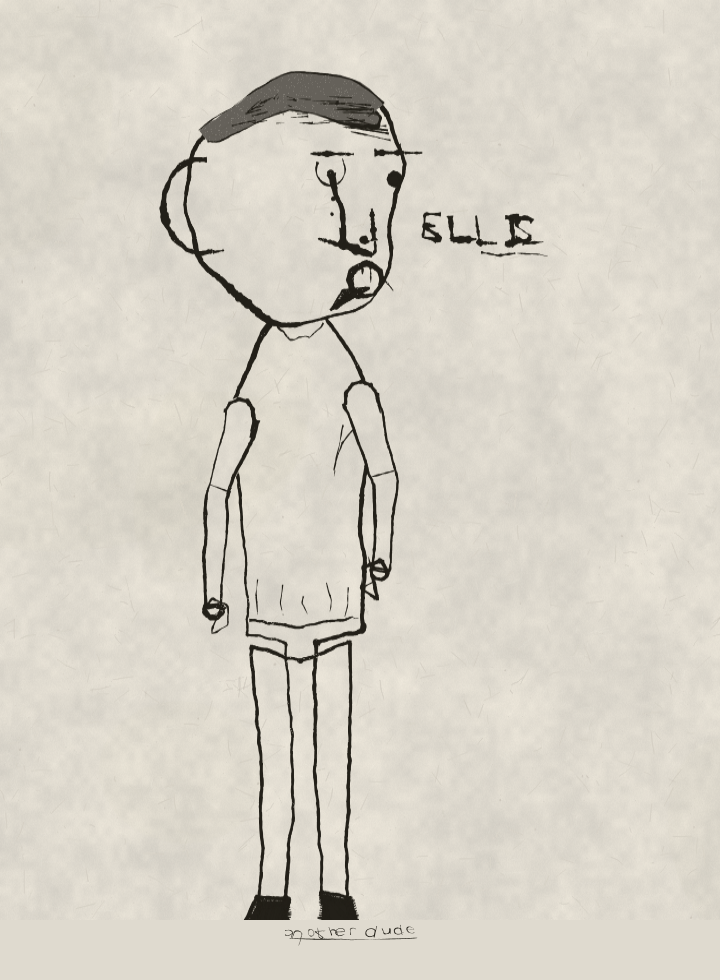
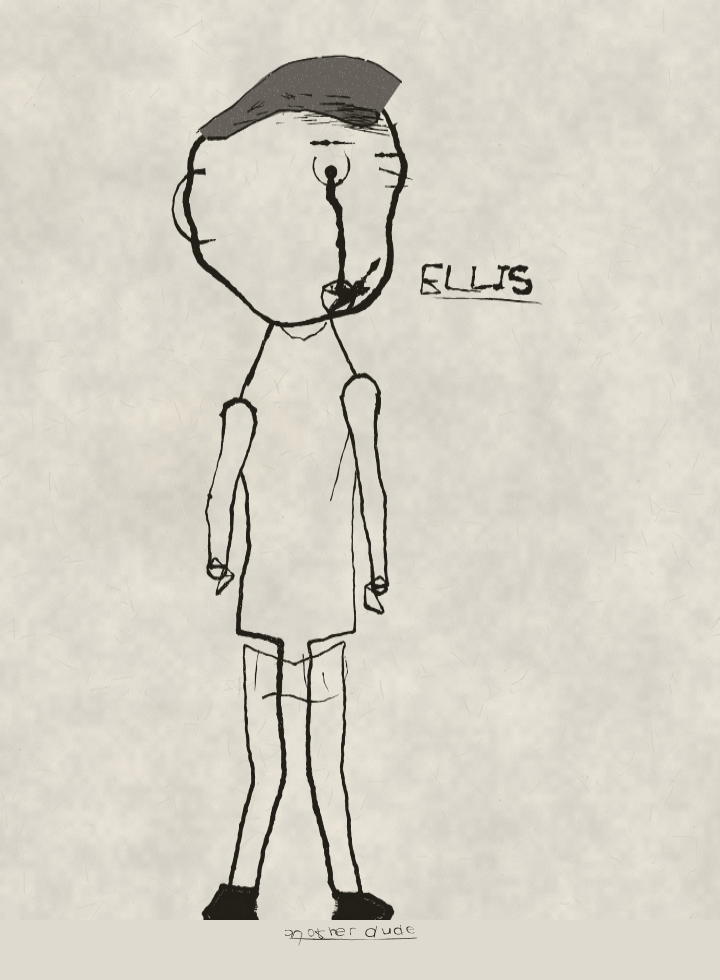
Gauntlet: arms over the garment, hair above the eyes, legible letters
Verification round confirmed three earlier fixes landed - no joint blobs
anywhere, the seven builds genuinely differ, and the name clears the
figure in all seven - and found this.

- Garment lines ran straight across both arms and out past the
  silhouette, so in one shot every stripe crossed both arms and they read
  as transparent. Arms are now drawn LAST, over the finished garment,
  which is also the order a person draws them in.
- Hems were still ruled. A hem now wanders on six points and stops short
  of the silhouette instead of running to it.
- The cuff still spanned the arm, which reads as the seam between two
  tubes. It is now a tick biting in from one edge and stopping.
- Hair could reach eye level on one side when a side sweep and a side
  bias stacked, and the mass then lay across the face as a black bar. The
  hairline is clamped above the eyes.
- A hat filled at a third opacity left the cranium line showing straight
  through it. Translucent hats and the curly wreath now wipe to paper and
  re-fibre first, like the stroke-laid hair already did.
- Weight hierarchy: the jaw now carries 1.45-1.95x the cranium rather
  than 1.15-1.45x, so the head has an underside.
- Shoulder slope, shrug and arm hang vary per figure; six of seven had
  been dropping both arms at the same near-vertical angle.
- Letter distortion had passed the point where a letter stops being that
  letter - OTTO was reading as 0550. Shear, bulge, jitter, rotation and
[…]

diff --git a/dude.js b/dude.js
@@ -908,8 +908,8 @@
     const w0 = skull.s * 0.03 * (skull.pen || 1);
     const cranium = arc(-ov, Math.round(n * 0.5) + ov);
     const jaw = arc(Math.round(n * 0.5) - ov, n + ov);
-    inkPoly(c, rng, cranium, { w: w0 * rng.f(0.88, 1.05), dry: 0.3, doubled: rng.chance(0.35) });
-    inkPoly(c, rng, jaw, { w: w0 * rng.f(1.15, 1.45), dry: 0.22, doubled: rng.chance(0.42) });
+    inkPoly(c, rng, cranium, { w: w0 * rng.f(0.82, 1.0), dry: 0.3, doubled: rng.chance(0.35) });
+    inkPoly(c, rng, jaw, { w: w0 * rng.f(1.45, 1.95), dry: 0.2, doubled: rng.chance(0.45) });
     if (rng.chance(0.35)) {
       // a cheek restated on one side only
       const a0 = Math.round(n * rng.f(0.02, 0.12));
@@ -1026,7 +1026,10 @@
       else if (sh === "jagged") y += (Math.round(Math.sin(u * 4.7 + 1.3) * 2) / 2) * 0.07;
       else if (sh === "low") y += 0.07 - temple * 0.03;
       y += (fbm2(u * 1.6 + 4, skull.yaw * 2 + (rng.seed % 53) * 0.07, rng.seed) - 0.5) * wob * 2;
-      y = clamp(y, -0.95, 0.08);
+      // Hair may sit low on the brow; it may not cross the eyes. A side sweep
+      // plus a side bias could put the hairline at eye level on one side, and
+      // the mass then read as a black bar laid across the face.
+      y = clamp(y, -0.95, -0.2 + (skull.faceY || 0));
       const p = pin(skull, sphere(u, Math.asin(clamp(y, -0.995, 0.995))));
       pts.push(p);
     }
@@ -1498,6 +1501,8 @@
     if (style === "curly") {
       const h = mk({ lineY: -0.5, bangs: 0.03, puff: 0.09, wob: 0.05 });
       if (h) {
+        inkFill(c, rng, h.mass, PAPER, 1, s * 0.012);
+        refibre(c, rng, h.mass);
         // a wreath of loops, clipped so it never floats off the head
         c.save();
         c.beginPath();
@@ -1583,6 +1588,10 @@
     if (style === "baseball") {
       const h = mk({ lineY: -0.44, puff: 0.15, wob: 0.015, outer: "dome" });
       if (h) {
+        // wipe first: a fill at a third opacity leaves the skull line showing
+        // straight through the hat
+        inkFill(c, rng, h.mass, PAPER, 1, s * 0.01);
+        refibre(c, rng, h.mass);
         inkFill(c, rng, h.mass, color, 0.34, s * 0.01);
         c.save();
         c.beginPath();
@@ -2155,7 +2164,8 @@
     const lw0 = B.armW * rng.f(1.02, 1.22);
     const legR = (t) => s * (lw0 - lw0 * 0.34 * t);
     const pose = clothes.pose;
-    const shrug = rng.f(-0.06, 0.1);
+    const shrug = rng.f(-0.12, 0.16);
+    const slope = rng.f(-0.14, 0.26); // square shoulders through to sloping
     // no two sides of a drawn person agree
     const asymL = rng.f(0.86, 1.14);
     const asymR = rng.f(0.86, 1.14);
@@ -2184,11 +2194,13 @@
         return [sh, P(side * (shW + s * 0.14), shY + s * 0.62), P(-side * s * 0.16, shY + s * 0.95)];
       }
       // hanging
+      // the hang is not vertical on everyone: some swing out, some tuck in
       const a = asym(side);
+      const swing = rng.f(-0.16, 0.24);
       return [
         sh,
-        P(side * (shW + s * rng.f(0.02, 0.13)) * a, shY + s * rng.f(0.72, 0.92) * a),
-        P(side * (shW + s * rng.f(-0.02, 0.2)) * a, shY + s * rng.f(1.5, 1.78) * a),
+        P(side * (shW + s * (rng.f(0.02, 0.13) + swing * 0.4)) * a, shY + s * rng.f(0.66, 0.96) * a),
+        P(side * (shW + s * (rng.f(-0.02, 0.2) + swing)) * a, shY + s * rng.f(1.42, 1.86) * a),
       ];
     };
 
@@ -2227,8 +2239,8 @@
     // ---- one continuous silhouette ----
     const neckL = P(-s * rng.f(0.15, 0.21), neckY - s * 0.42);
     const neckR = P(s * rng.f(0.15, 0.21), neckY - s * 0.42);
-    const shoulderL = P(-shW * asymL, shY + s * shrug * -1);
-    const shoulderR = P(shW * asymR, shY + s * shrug + s * rng.f(-0.06, 0.06));
+    const shoulderL = P(-shW * asymL, shY + s * (slope - shrug));
+    const shoulderR = P(shW * asymR, shY + s * (slope + shrug) + s * rng.f(-0.06, 0.06));
     // a belly, or a pinch, or neither — and it is not at the same height twice
     const waistY = shY + (hipY - shY) * rng.f(0.42, 0.68);
     const midW = (shW + hipW) * 0.5 * B.waist;
@@ -2360,26 +2372,29 @@
     const bw = s * 0.034 * rng.f(0.92, 1.12);
     const wob = s * rng.f(0.035, 0.06);
     inkPoly(c, rng, core, { closed: true, w: bw, doubled: true, dry: 0.6, wobble: wob });
-    // the arm sits in front of the body, so it hides the line behind it
-    inkFill(c, rng, Larm, clothes.wash || PAPER, clothes.wash ? 0.22 : 1, 0.8);
-    inkFill(c, rng, Rarm, clothes.wash || PAPER, clothes.wash ? 0.22 : 1, 0.8);
-    refibre(c, rng, Larm);
-    refibre(c, rng, Rarm);
-    inkPoly(c, rng, Larm, { closed: true, w: bw * 0.92, dry: 0.7, wobble: wob * 0.8 });
-    inkPoly(c, rng, Rarm, { closed: true, w: bw * 0.92, dry: 0.7, wobble: wob * 0.8 });
-    if (pose !== "folded" && pose !== "pockets") {
-      hand(c, rng, LaS, armR(1), -1, s);
-      hand(c, rng, RaS, armR(1), 1, s);
-    } else if (pose === "pockets") {
-      for (let side = -1; side <= 1; side += 2) {
-        const t = side < 0 ? LaS[LaS.length - 1] : RaS[RaS.length - 1];
-        inkPoly(c, rng, [
-          { x: t.x - side * s * 0.22, y: t.y - s * rng.f(0.16, 0.26) },
-          { x: t.x - side * s * 0.06, y: t.y - s * 0.04 },
-          { x: t.x + side * s * rng.f(0.08, 0.16), y: t.y + s * rng.f(0.0, 0.06) },
-        ], { w: s * 0.017, dry: 0.7 });
+    // Arms are drawn LAST, over the finished garment. Drawn before it, every
+    // hem and stripe ran straight across them and the arms read transparent.
+    const drawArms = () => {
+      inkFill(c, rng, Larm, PAPER, 1, 0.8);
+      inkFill(c, rng, Rarm, PAPER, 1, 0.8);
+      refibre(c, rng, Larm);
+      refibre(c, rng, Rarm);
+      inkPoly(c, rng, Larm, { closed: true, w: bw * 0.92, dry: 0.7, wobble: wob * 0.8 });
+      inkPoly(c, rng, Rarm, { closed: true, w: bw * 0.92, dry: 0.7, wobble: wob * 0.8 });
+      if (pose !== "folded" && pose !== "pockets") {
+        hand(c, rng, LaS, armR(1), -1, s);
+        hand(c, rng, RaS, armR(1), 1, s);
+      } else if (pose === "pockets") {
+        for (let side = -1; side <= 1; side += 2) {
+          const t = side < 0 ? LaS[LaS.length - 1] : RaS[RaS.length - 1];
+          inkPoly(c, rng, [
+            { x: t.x - side * s * 0.22, y: t.y - s * rng.f(0.16, 0.26) },
+            { x: t.x - side * s * 0.06, y: t.y - s * 0.04 },
+            { x: t.x + side * s * rng.f(0.08, 0.16), y: t.y + s * rng.f(0.0, 0.06) },
+          ], { w: s * 0.017, dry: 0.7 });
+        }
       }
-    }
+    };
     const outline = core;
 
     // ---- clothes cut into the figure ----
@@ -2390,6 +2405,22 @@
     const sleeveT = rng.f(0.36, 0.66);
     // A straight rule across the arm at the same place on both sides reads as
     // the seam where two tubes were butted together, not as a sleeve.
+    // a hem is not a rule: it wanders, and it stops short of the silhouette
+    const hemPts = () => {
+      const x0 = waistL.x + s * rng.f(0.04, 0.16);
+      const x1 = waistR.x - s * rng.f(0.04, 0.16);
+      const pts = [];
+      const n = 5;
+      for (let i = 0; i <= n; i++) {
+        const t = i / n;
+        pts.push({
+          x: x0 + (x1 - x0) * t,
+          y: hemY + Math.sin(t * Math.PI * rng.f(0.7, 1.6)) * s * rng.f(-0.05, 0.05) + rng.f(-2, 2),
+        });
+      }
+      return pts;
+    };
+
     const cuff = (S, side) => {
       if (rng.chance(0.22)) return; // not every sleeve gets marked
       const t = sleeveT + rng.f(-0.12, 0.12);
@@ -2397,25 +2428,30 @@
       const a = edgeOf(S, armR, -1, side < 0 ? 11 : 83)[i];
       const b = edgeOf(S, armR, 1, side < 0 ? 24 : 96)[i];
       if (!a || !b) return;
-      const mx = (a.x + b.x) / 2;
-      const my = (a.y + b.y) / 2;
-      const bow = rng.f(-0.35, 0.35);
-      const short = rng.f(0, 0.22);
+      // A mark spanning the arm reads as the seam between two tubes. A cuff
+      // is a tick biting in from one edge and stopping.
+      const from = rng.chance(0.5) ? 0 : 1;
+      const p0 = from ? b : a;
+      const p1 = from ? a : b;
+      const reach = rng.f(0.3, 0.7);
       inkPoly(c, rng, [
-        { x: a.x + (b.x - a.x) * short, y: a.y + (b.y - a.y) * short },
-        { x: mx + (b.y - a.y) * bow * 0.3, y: my - (b.x - a.x) * bow * 0.3 },
-        { x: b.x - (b.x - a.x) * rng.f(0, 0.18), y: b.y - (b.y - a.y) * rng.f(0, 0.18) },
-      ], { w: s * rng.f(0.012, 0.02), dry: 0.8, wobble: s * 0.02 });
+        { x: p0.x, y: p0.y },
+        {
+          x: p0.x + (p1.x - p0.x) * reach * 0.55 + (p1.y - p0.y) * rng.f(-0.2, 0.2),
+          y: p0.y + (p1.y - p0.y) * reach * 0.55 - (p1.x - p0.x) * rng.f(-0.2, 0.2),
+        },
+        { x: p0.x + (p1.x - p0.x) * reach, y: p0.y + (p1.y - p0.y) * reach },
+      ], { w: s * rng.f(0.011, 0.018), dry: 0.9, wobble: s * 0.018 });
     };
 
     if (clothes.kind === "tee") {
       cuff(LaS, -1);
       cuff(RaS, 1);
       inkPoly(c, rng, arcPts((neckL.x + neckR.x) / 2, neckL.y + s * 0.06, s * rng.f(0.24, 0.32), 0.42, Math.PI - 0.42, rng), { w: s * 0.017, dry: 0.6, wobble: s * 0.035 });
-      inkPoly(c, rng, [{ x: waistL.x + s * 0.04, y: hemY }, { x: (waistL.x + waistR.x) / 2, y: hemY + rng.f(-5, 6) }, { x: waistR.x - s * 0.04, y: hemY + rng.f(-4, 5) }], { w: s * 0.018, dry: 0.6, wobble: s * 0.045 });
+      inkPoly(c, rng, hemPts(), { w: s * 0.018, dry: 0.6, wobble: s * 0.05 });
     } else if (clothes.kind === "hoodie") {
       inkPoly(c, rng, arcPts((neckL.x + neckR.x) / 2, neckY + s * 0.36, s * 0.42, 0.35, Math.PI - 0.35, rng), { w: s * 0.019, dry: 0.6, wobble: s * 0.035 });
-      inkPoly(c, rng, [{ x: waistL.x + s * 0.04, y: hemY }, { x: (waistL.x + waistR.x) / 2, y: hemY + rng.f(-5, 6) }, { x: waistR.x - s * 0.04, y: hemY + rng.f(-4, 5) }], { w: s * 0.021, dry: 0.6, wobble: s * 0.045 });
+      inkPoly(c, rng, hemPts(), { w: s * 0.021, dry: 0.6, wobble: s * 0.05 });
       const pk = (neckL.x + neckR.x) / 2;
       inkPoly(c, rng, [
         { x: pk - s * 0.34, y: hemY - s * 0.42 },
@@ -2442,7 +2478,7 @@
         { x: mid + s * 0.06, y: shY + s * 0.36 },
         { x: mid + s * 0.34, y: shY + s * 0.44 },
       ], { w: s * 0.016 });
-      inkPoly(c, rng, [{ x: waistL.x + s * 0.04, y: hemY }, { x: (waistL.x + waistR.x) / 2, y: hemY + rng.f(-5, 6) }, { x: waistR.x - s * 0.04, y: hemY + rng.f(-4, 5) }], { w: s * 0.02, dry: 0.6, wobble: s * 0.045 });
+      inkPoly(c, rng, hemPts(), { w: s * 0.02, dry: 0.6, wobble: s * 0.05 });
       cuff(LaS, -1);
       cuff(RaS, 1);
     } else if (clothes.kind === "sweater") {
@@ -2531,6 +2567,8 @@
       }
       c.restore();
     }
+
+    drawArms();
 
     if (clothes.darkLegs && clothes.pattern !== "dark") {
       c.save();
@@ -2642,12 +2680,12 @@
     if (!d) return size * 0.55;
     const sx = size * rng.f(0.86, 1.14);
     const sy = size * rng.f(0.88, 1.14);
-    const rot = rng.f(-0.09, 0.09);
+    const rot = rng.f(-0.06, 0.06);
     // A hand cannot repeat a letterform. Shear it, squash it unevenly, and
     // push every control point — otherwise the two O's in a word superimpose
     // and the whole thing reads as a distressed typeface.
-    const shear = rng.f(-0.22, 0.22);
-    const bulge = rng.f(-0.16, 0.16);
+    const shear = rng.f(-0.13, 0.13);
+    const bulge = rng.f(-0.09, 0.09);
     const gseed = rng.i(1, 99999);
     const w = size * (ch === " " ? 0.55 : ch === "i" || ch === "l" || ch === "I" || ch === "'" ? 0.42 : rng.f(0.74, 0.88));
     d.forEach((stroke) => {
@@ -2656,8 +2694,8 @@
       let px = 0;
       let py = 0;
       const xf = (u, v) => {
-        const jx = (fbm2(u * 3.1 + gseed * 0.01, v * 3.1, gseed) - 0.5) * size * 0.09;
-        const jy = (fbm2(v * 3.7 + gseed * 0.01, u * 3.7, gseed + 41) - 0.5) * size * 0.09;
+        const jx = (fbm2(u * 3.1 + gseed * 0.01, v * 3.1, gseed) - 0.5) * size * 0.055;
+        const jy = (fbm2(v * 3.7 + gseed * 0.01, u * 3.7, gseed + 41) - 0.5) * size * 0.055;
         const rx = (u - 0.5 + bulge * v * (1 - v) * 2) * sx - v * shear * sx;
         const ry = v * sy;
         return {
@@ -2688,13 +2726,13 @@
         }
       });
       // the pen runs past the join instead of stopping on it
-      if (pts.length > 1 && rng.chance(0.55)) {
+      if (pts.length > 1 && rng.chance(0.4)) {
         const a = pts[pts.length - 2];
         const b = pts[pts.length - 1];
-        const k = rng.f(0.06, 0.24);
+        const k = rng.f(0.04, 0.14);
         pts.push({ x: b.x + (b.x - a.x) * k * 3, y: b.y + (b.y - a.y) * k * 3 });
       }
-      inkPoly(c, rng, pts, { w: size * (wk ?? rng.f(0.08, 0.17)), passes: 1, dry: 0.55, wobble: size * rng.f(0.035, 0.08) });
+      inkPoly(c, rng, pts, { w: size * (wk ?? rng.f(0.075, 0.125)), passes: 1, dry: 0.55, wobble: size * rng.f(0.03, 0.055) });
     });
     return w;
   }
